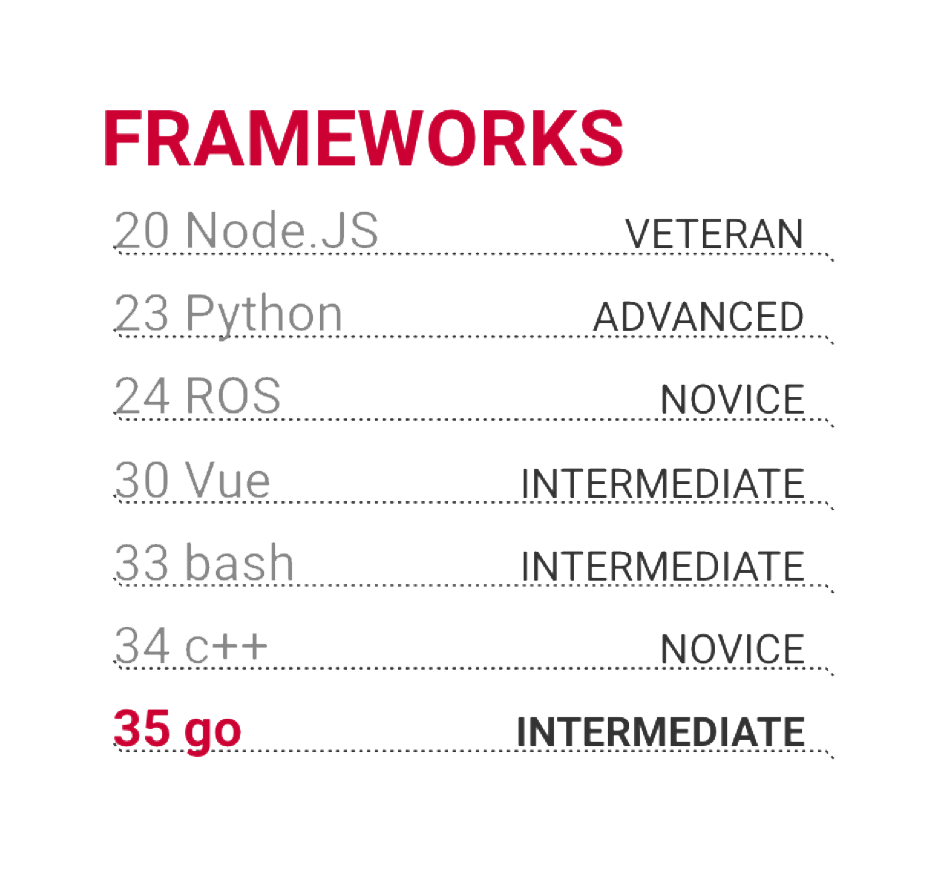
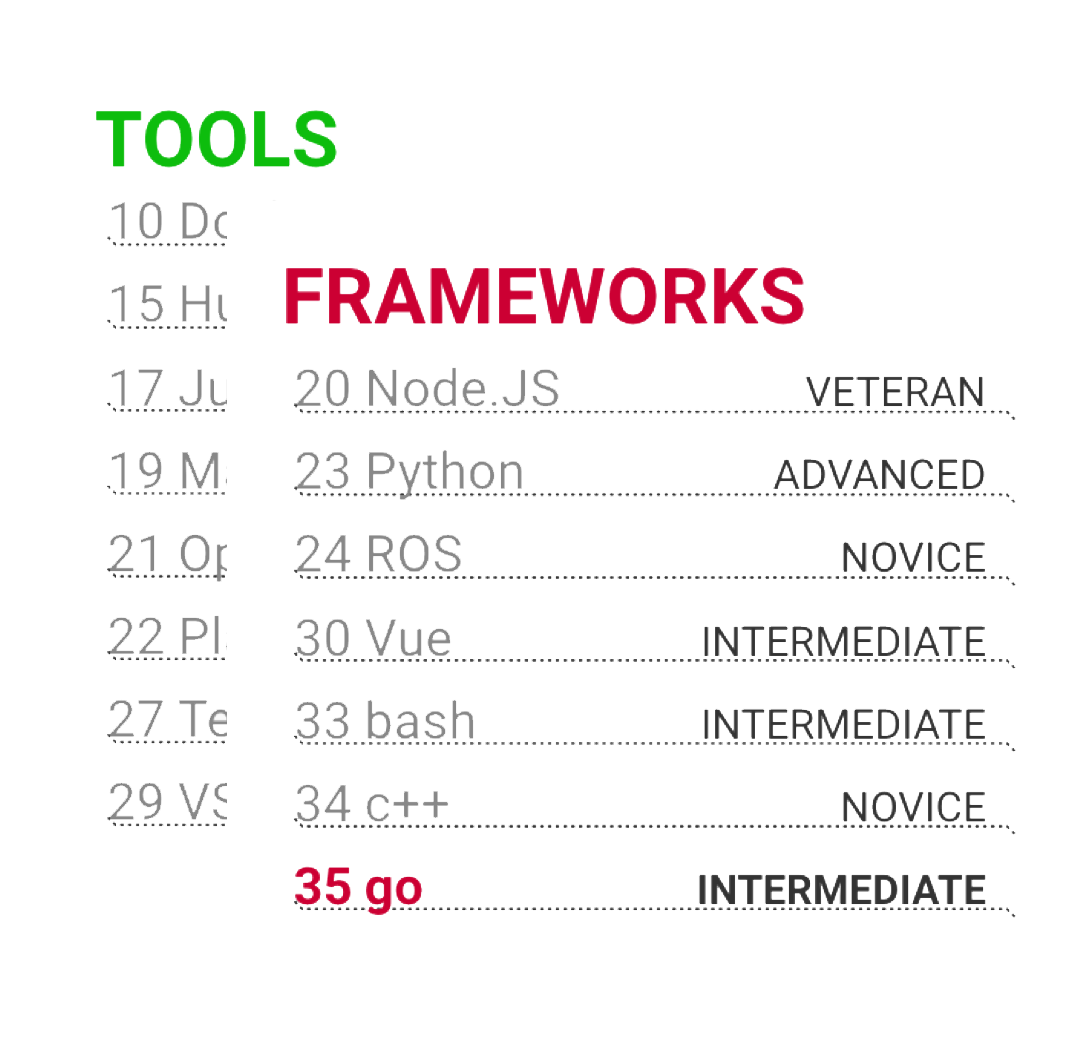
add cards & improve css

diff --git a/app/src/components/Home.vue b/app/src/components/Home.vue
@@ -1,101 +1,148 @@
 <template>
   <v-container fluid>
-    <v-container class="intro-radar-container">
-      <img src="heading_radar.png" class="intro-radar-img" />
-    </v-container>
-    <v-container class="full-height-width">
-      <v-row>
-        <v-row >
-          <v-col cols=12 class="intro-heading-spacing">
-            <h1 class="intro-heading">Competence Management <br /> for developers</h1>
-          </v-col>
-        </v-row>
+    <v-container class="full-height-width-view ml-10 align-items-center">
+      <v-container class="intro-radar-container">
+        <img src="heading_radar.png" class="intro-radar-img" />
+      </v-container>
+      <v-container class="full-height-width-perc justify-space-around">
         <v-row>
+          <v-row >
+            <v-col cols=12 class="intro-heading-spacing">
+              <h1 class="intro-heading">Competence Management <br /> for developers</h1>
+            </v-col>
+          </v-row>
+          <v-row>
+            <v-col>
+              <v-row row>
+                <v-col class="intro-text" cols=6 lg=4 md=6 sm=8 xs=12>
+                  Manage your skills as an individual using the devradar editor or track competence management within your team by using both the editor and the devradar teams app.
+                </v-col>
+              </v-row>
+              <v-row row>
+                <v-col class="intro-listing-container" cols=8>
+                  <ul class="intro-listing">
+                    <li>Manage skills via web UI</li>
+                    <li>View all skills in a list or radar view</li>
+                    <li>Import/Export via .toml files</li>
+                    <li>Overlay your teams devradars</li>
+                  </ul>
+                </v-col>
+              </v-row>
+              <v-row row>
+                <v-col class="intro-buttons" cols=8>
+                  <v-btn dark class="intro-button text-underlined">Get Started</v-btn>
+                  <v-btn dark class="intro-button">Learn More</v-btn>
+                </v-col>
+              </v-row>
+            </v-col>
+          </v-row>
+        </v-row>
+      </v-container>
+    </v-container>
+    <v-container class="align-items-center">
+      <v-container >
+        <v-row align="center">
           <v-col>
-            <v-row row>
-              <v-col class="intro-text" cols=6 lg=4 md=6 sm=8 xs=12>
-                Manage your skills as an individual using the devradar editor or track competence management within your team by using both the editor and the devradar teams app.
-              </v-col>
-            </v-row>
-            <v-row row>
-              <v-col class="intro-listing-container" cols=8>
-                <ul class="intro-listing">
-                  <li>Manage skills via web UI</li>
-                  <li>View all skills in a list or radar view</li>
-                  <li>Import/Export via .toml files</li>
-                  <li>Overlay your teams devradars</li>
-                </ul>
-              </v-col>
-            </v-row>
-            <v-row row>
-              <v-col class="intro-buttons" cols=8>
-                <v-btn dark class="intro-button text-underlined">Get Started</v-btn>
-                <v-btn dark class="intro-button">Learn More</v-btn>
-              </v-col>
-            </v-row>
+            <img src="frameworks_mixed_screenshot.png" class="intro-frameworks-img" />
+          </v-col>
+          <v-col class="frameworks-text" cols=6>
+            Track skills of different categories like <b>Frameworks, Tools, Platforms, Techniques, or custom</b> ones. <br />
+            Keep track of your whole suite of knowledge in one single glance.
           </v-col>
         </v-row>
-      </v-row>
+      </v-container>
     </v-container>
-    <v-container class="full-height-width">
-      <v-row row>
-        <v-col>
-          <img src="frameworks_screenshot.png" class="intro-frameworks-img" />
-        </v-col>
-        <v-col class="intro-listing-container" cols=6>
-          Manage your skills as an individual using the devradar editor or track competence management within your team by using both the editor and the devradar teams app.
-        </v-col>
-      </v-row>
-    </v-container>
-    <v-container class="full-height-width">
-      <v-row row>
-        <v-col cols=4>
-          <v-card light >
-            <v-card-title>
-              Free Personal Radar
-            </v-card-title>
-            <v-card-text>
-              Free Personal Radar
+    <v-container class="align-items-center">
+      <v-container fluid>
+        <v-row align="center" align-content="center" justify="center">
+          <v-col cols=4 lg=4 md=6 sm=12 xs=12>
+            <v-container class="card-container">
+              <v-card light raised height="400">
+                <v-card-title class="card-title center-content">
+                  <v-icon x-large>home</v-icon>
+                  Serverless
+                </v-card-title> 
+                <v-card-text class="card-text center-content">
+                  Host your own instance on Google Firebase with automatically integrated authentication, sophisticaed user management and full web-based blip editing.
+                </v-card-text>
 
-              <v-btn dark class="intro-button text-underlined">Get Started</v-btn>
-                <v-btn dark class="intro-button">Learn More</v-btn>
-            </v-card-text>
-          </v-card>
-        </v-col>
-        <v-col cols=4>
-          <v-card light >
-            <v-card-title>
-              Free Personal Radar
-            </v-card-title>
-            <v-card-text>
-              Loading radar..
-            </v-card-text>
-          </v-card>
-        </v-col>
-        <v-col cols=4>
-          <v-card light >
-            <v-card-title>
-              Free Personal Radar
-            </v-card-title>
-            <v-card-text>
-              Loading radar..
-            </v-card-text>
-          </v-card>
-        </v-col>
-      </v-row>
+                <v-card-actions class="center-content">
+                  <v-btn dark class="intro-button text-underlined">Start now</v-btn>
+                </v-card-actions>
+              </v-card>
+            </v-container>
+          </v-col>
+          <v-col cols=4 lg=4 md=6 sm=12 xs=12>
+            <v-container class="card-container">
+              <v-card light raised height="400">
+                <v-card-title class="card-title center-content">
+                  <v-icon x-large>home</v-icon>
+                  Serverless
+                </v-card-title>
+                <v-card-text class="card-text center-content">
+                  Host your own instance on Google Firebase with automatically integrated authentication, sophisticaed user management and full web-based blip editing.
+                </v-card-text>
+
+                <v-card-actions class="center-content">
+                  <v-btn dark class="intro-button text-underlined">Start now</v-btn>
+                </v-card-actions>
+              </v-card>
+            </v-container>
+          </v-col>
+          <v-col cols=4 lg=4 md=6 sm=12 xs=12>
+            <v-container class="card-container">
+              <v-card light raised height="400">
+                <v-card-title class="card-title center-content">
+                  <v-icon x-large>home</v-icon>
+                  Serverless
+                </v-card-title>
+                <v-card-text class="card-text center-content">
+                  Host your own instance on Google Firebase with automatically integrated authentication, sophisticaed user management and full web-based blip editing.
+                </v-card-text>
+
+                <v-card-actions class="center-content">
+                  <v-btn dark class="intro-button text-underlined">Start now</v-btn>
+                </v-card-actions>
+              </v-card>
+            </v-container>
+          </v-col>
+        </v-row>
+      </v-container>
     </v-container>
   </v-container>
 </template>
 
 
 <style lang="scss">
-.full-height-width {
-  height: 100vh;
+.full-height-width-view {
+  height: calc(100vh - 100px);
   width: 100vw;
 }
 
+.full-height-width-perc {
+  height: 80%;
+  width: 100%;
+}
+
+.align-items-center {
+  display: flex;
+  align-items: center;
+}
+
+.center-content {
+  display: flex;
+  flex-direction: column;
+  align-content: center;
+  align-items: center;
+  justify-content: center;
+}
+
 .intro-heading-spacing {
-  
+  margin-bottom: 3vw;
+}
+
+.frameworks-text {
+  font-size: 1.5em;
 }
 
 .intro-radar-container {
@@ -110,9 +157,8 @@
 }
 
 .intro-frameworks-img {
-  height: 25vw;
+  height: 35vw;
   position: relative;
-
 }
 
 .intro-listing {
@@ -149,7 +195,29 @@
 }
 
 .intro-text {
-  font-size: 1.5rem;
+  font-size: 1.25em;
+}
+
+.card-container {
+  width: 400px !important;
+}
+
+.center-card-content {
+  display: flex;
+  flex-direction: row;
+  justify-content: center;
+  align-items: center;
+  align-content: center;
+}
+
+.card-title {
+  font-size: 1.75em !important;
+}
+
+.card-text {
+  margin-bottom: 10px;
+  font-size: 1.1em !important;
+  text-align: center;
 }
 
 </style>
